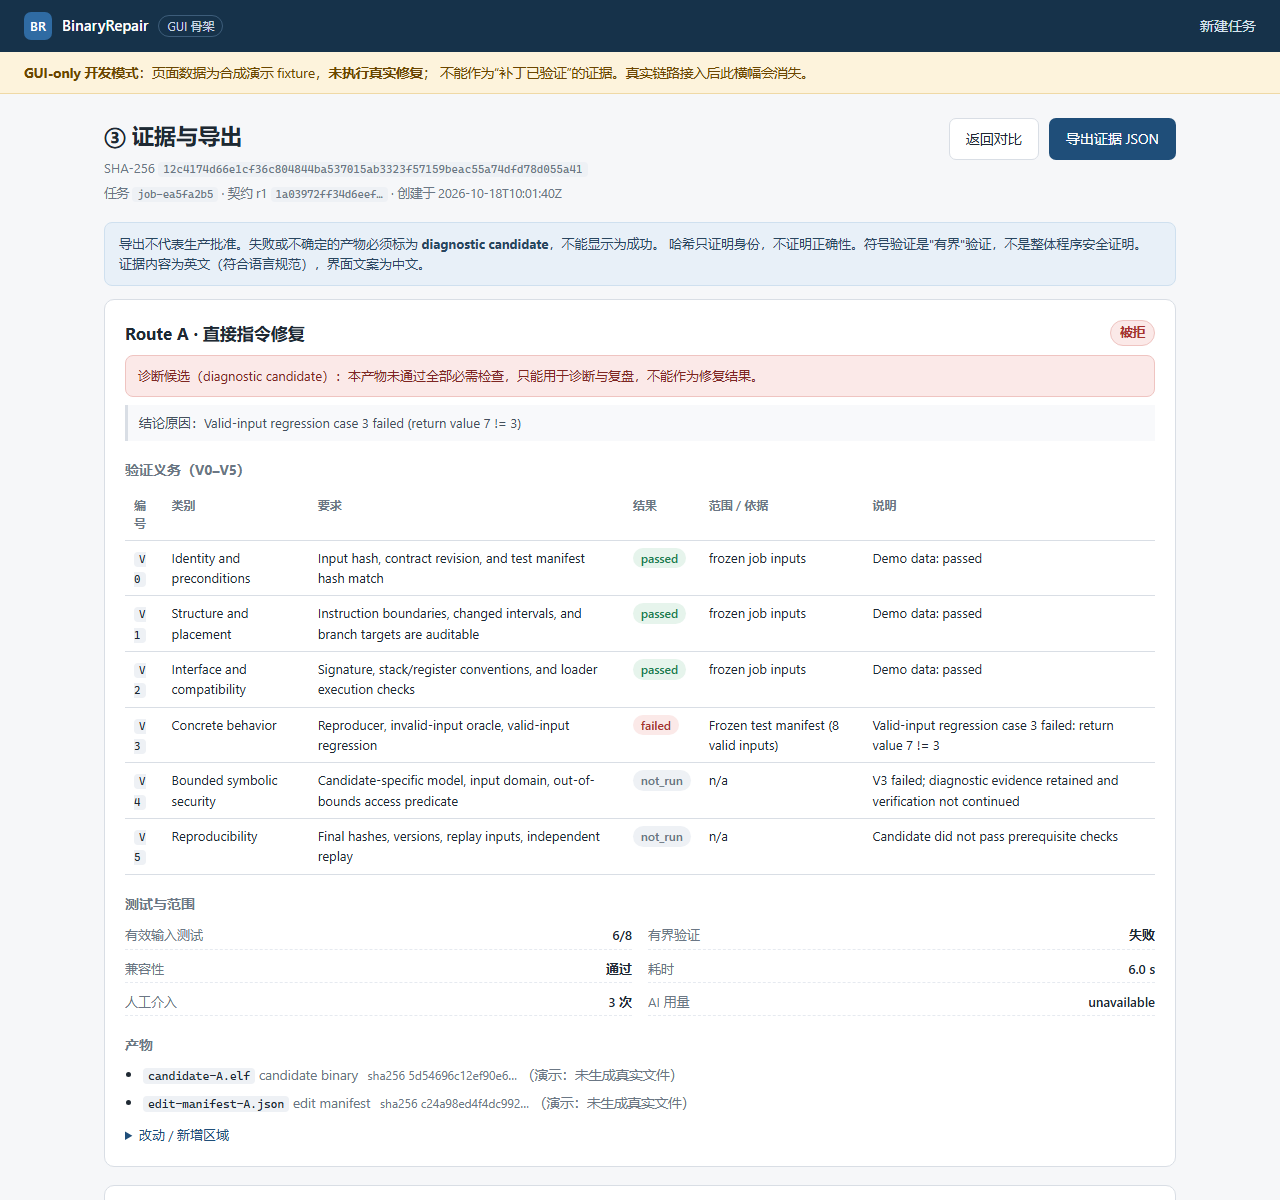
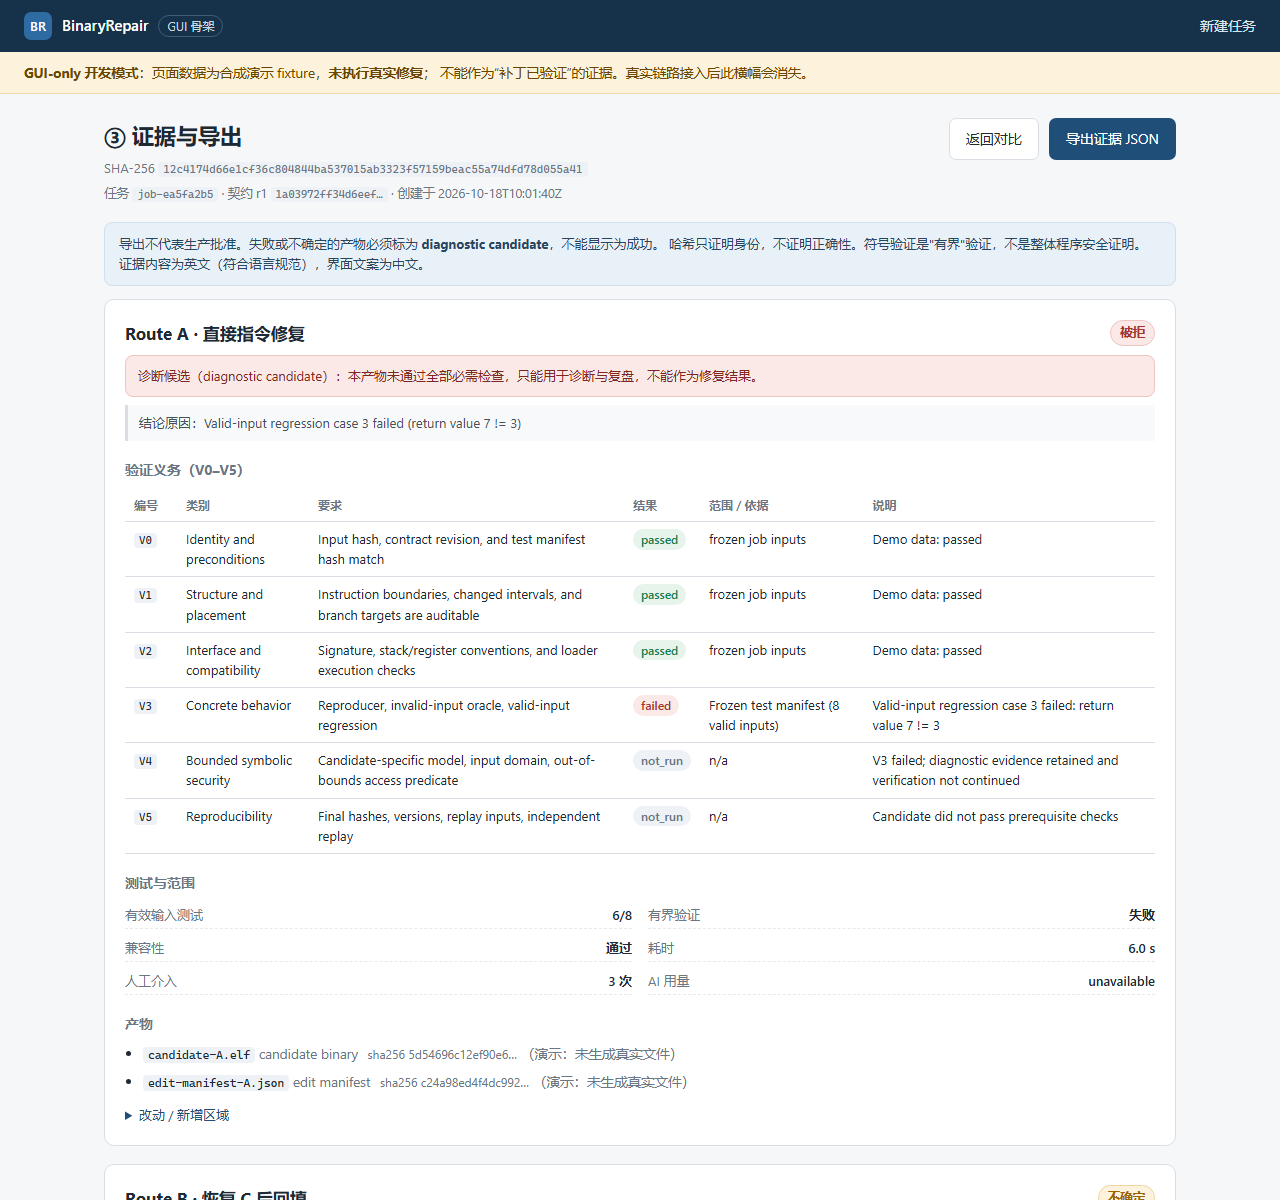
style(gui): widen obligation columns so V0-V5 ids do not wrap

diff --git a/app/static/css/app.css b/app/static/css/app.css
@@ -245,6 +245,8 @@ h3 { font-size: 14px; margin: 18px 0 8px; color: var(--muted); text-transform: n
 .obligations { width: 100%; border-collapse: collapse; font-size: 13px; }
 .obligations th, .obligations td { text-align: left; padding: 7px 9px; border-bottom: 1px solid var(--line); vertical-align: top; }
 .obligations th { color: var(--muted); font-size: 12px; font-weight: 600; }
+.obligations th:first-child, .obligations td:first-child { width: 52px; white-space: nowrap; }
+.obligations th:nth-child(2), .obligations td:nth-child(2) { width: 132px; }
 .result {
   display: inline-block; padding: 1px 8px; border-radius: 999px; font-size: 12px; font-weight: 600;
 }
